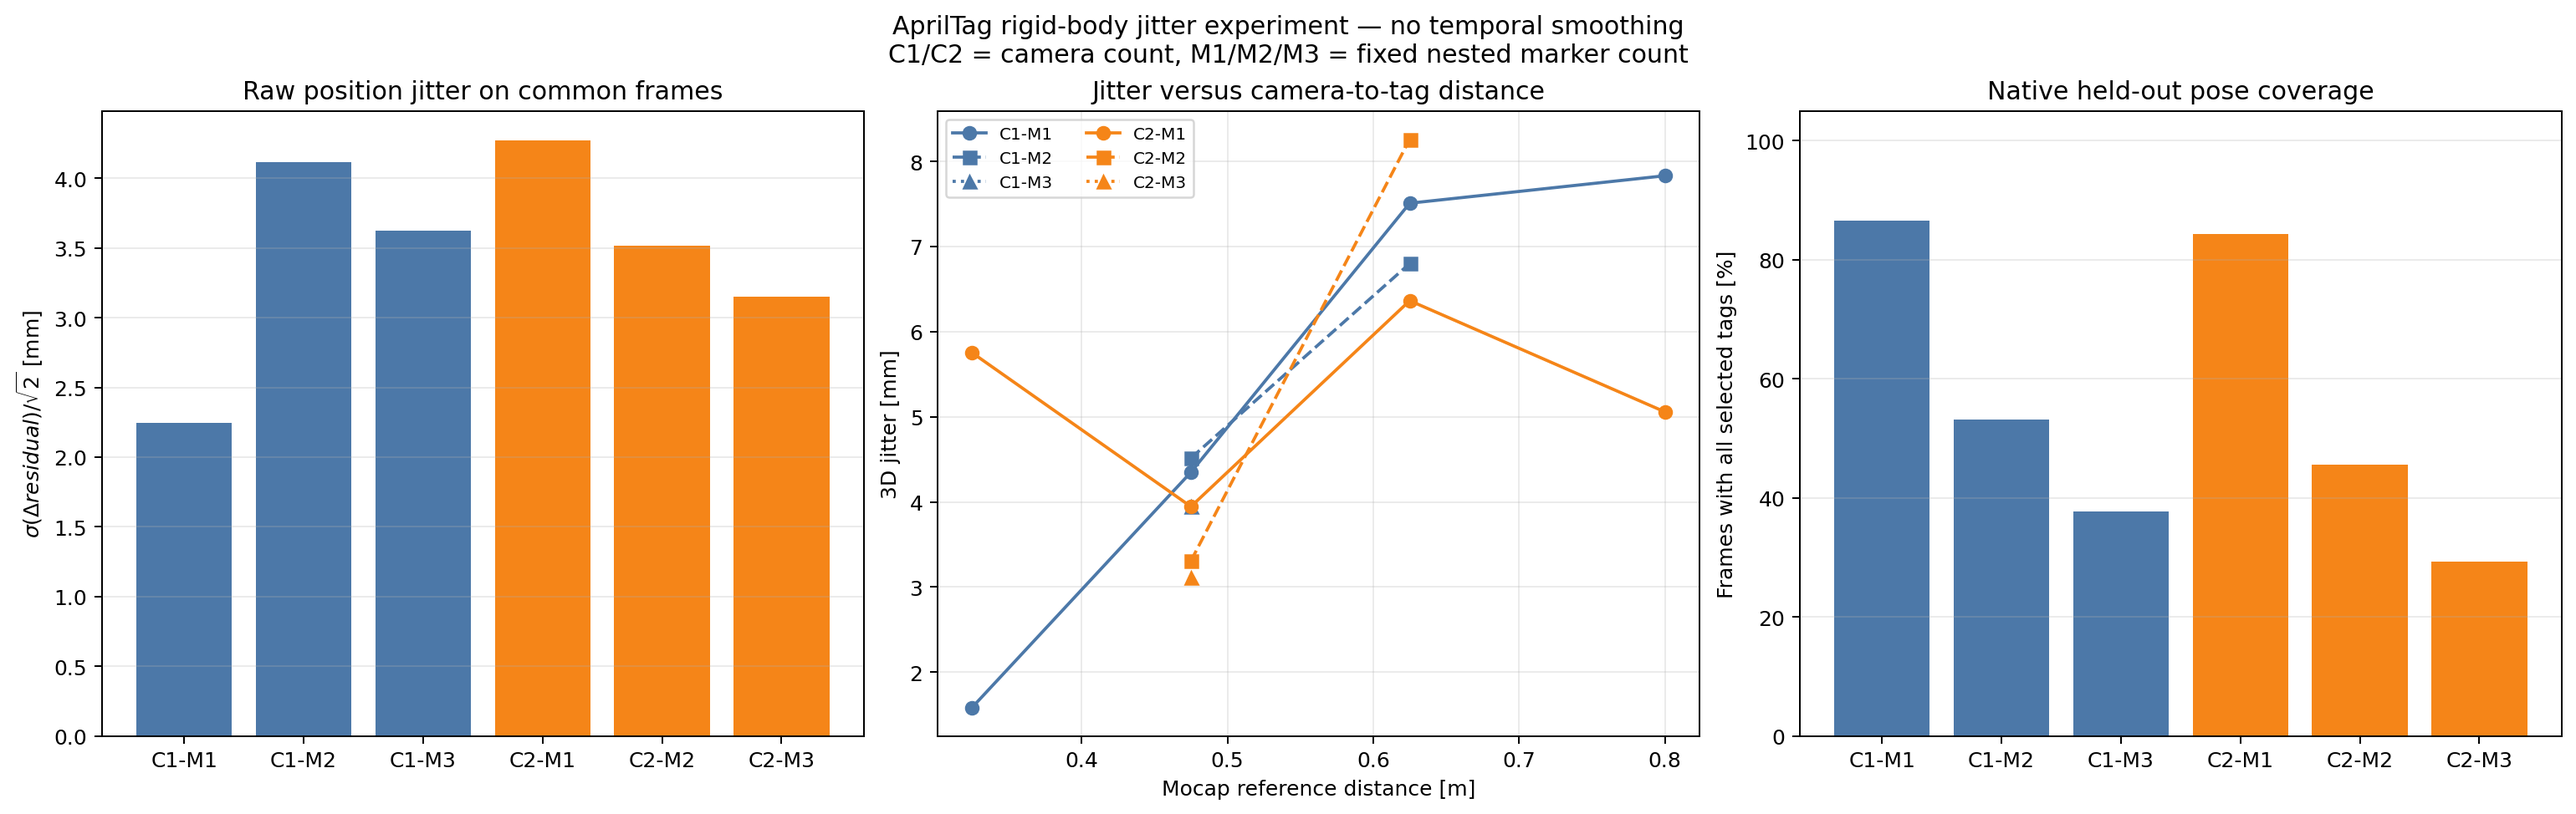
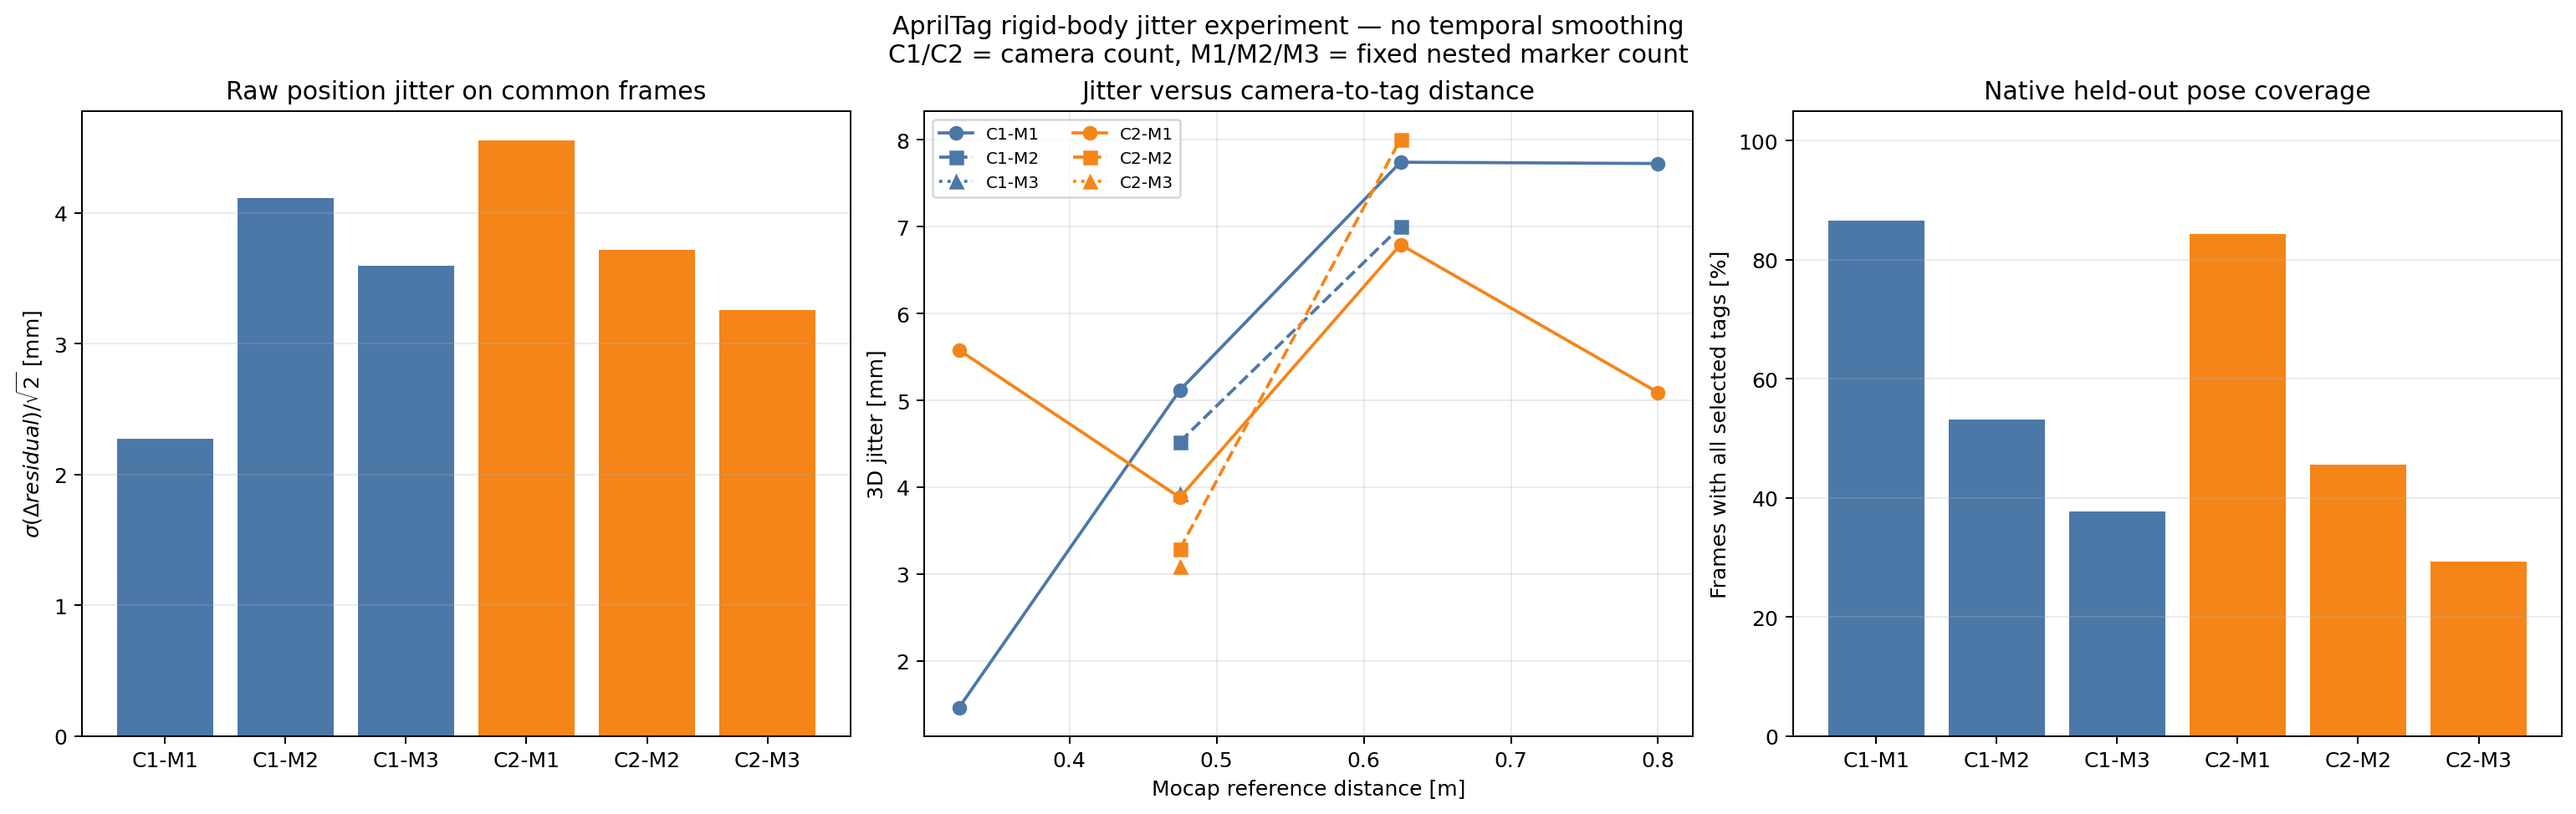
changing calibratoin

diff --git a/trunkpose/dual_notebooks/01_corner_detection.py b/trunkpose/dual_notebooks/01_corner_detection.py
@@ -80,8 +80,8 @@ cam1_upak = get_video_unpacker(cam1_frame_data)
 def detectCorners(data):
     frame_id, _frame = data
 
-    _frame = cv2.rotate(_frame.copy(), cv2.ROTATE_180)
-    _frame = cv2.flip(_frame, 1)
+    # _frame = cv2.rotate(_frame.copy(), cv2.ROTATE_180)
+    # _frame = cv2.flip(_frame, 1)
     if len(_frame.shape) == 3:
         _frame = cv2.cvtColor(_frame, cv2.COLOR_RGB2GRAY)
     ret, corners = cv2.findChessboardCorners(_frame, patternSize)

diff --git a/graphify-out/memory/query_20260825_065641_alright__when_we_calibrated_the_cameras__i_think_i.md b/graphify-out/memory/query_20260825_065641_alright__when_we_calibrated_the_cameras__i_think_i.md
@@ -1,0 +1,19 @@
+---
+type: "query"
+date: "2026-08-25T06:56:41.633210+00:00"
+question: "alright, when we calibrated the cameras, i think i added rotation notebooks\\calibration\\dual_notebooks\\02_dual_calibration.py will that be a problem? should we remove rotation and calibrate again?"
+contributor: "graphify"
+source_nodes: ["calibration/dual_notebooks/02_dual_calibration.py", "_perview_extrinsics()", "Stereo Camera: Calibration, Verification & Findings"]
+---
+
+# Q: alright, when we calibrated the cameras, i think i added rotation notebooks\calibration\dual_notebooks\02_dual_calibration.py will that be a problem? should we remove rotation and calibrate again?
+
+## Answer
+
+Expanded from original query via vocab: [calibration, camera, rotate, rotation, intrinsics, extrinsics, fisheye, stereo, frame, corners, transform, image]. The radxa_calib_parallel corner preprocessing in trunkpose/dual_notebooks/01_corner_detection.py applies ROTATE_180 followed by horizontal flip, which is equivalent to a vertical image flip. The jitter estimator uses raw unflipped frames, so its pixel coordinate convention does not match the K/D and stereo R/T learned from the flipped corners. Recommended: remove both preprocessing operations, regenerate corner PKLs and stereo_calibration.toml from the existing raw msgpack recordings, and validate on raw held-out corners; retain Rotation.from_matrix(...).mean() in 02_dual_calibration.py because it averages physical stereo rotations and does not rotate images. Also pair free-running cameras by nearest recorded timestamp rather than equal frame index before recalibration.
+
+## Source Nodes
+
+- calibration/dual_notebooks/02_dual_calibration.py
+- _perview_extrinsics()
+- Stereo Camera: Calibration, Verification & Findings
